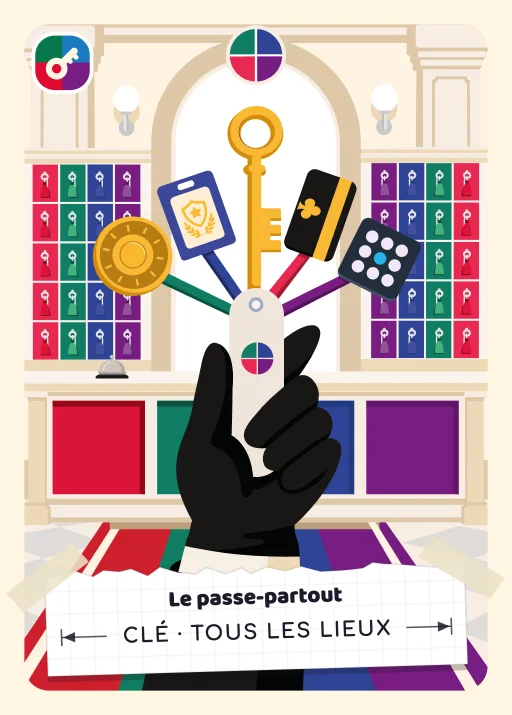
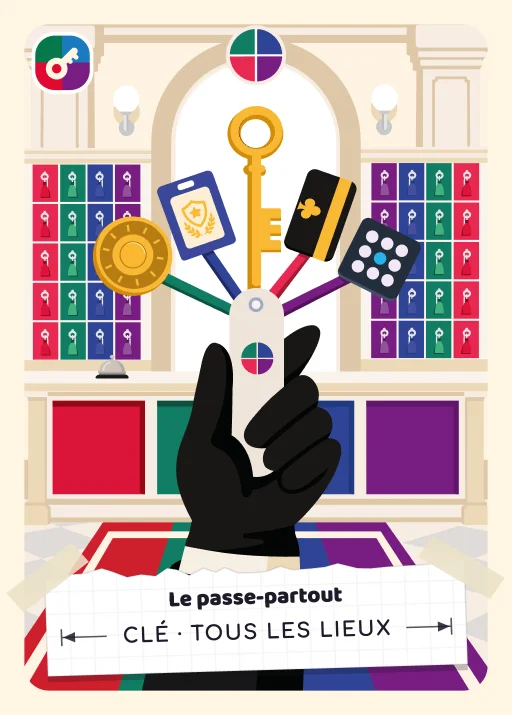
Cards: rename the Bank cards, new stamp Key, retouched universals
The Bank Key "La combinaison du coffre" becomes "Le tampon du directeur"
(new illustration: a gloved hand pressing the director's stamp on a slip),
and the Bank Loot "Les lingots" becomes "Le coffre" (the safe illustration).
Card images renamed to 01-le-tampon-du-directeur.webp and 02-le-coffre.webp;
gallery, scoring examples, simulator labels and the step-by-step example
use the new names. Passe-partout and Pactole re-exported with the aligned
striped rug and the full luggage conveyor.

diff --git a/voltigo.html b/voltigo.html
@@ -557,8 +557,8 @@
   <div class="sechead"><div class="pastille">66</div><div><h2>Les cartes</h2><div class="sub">Tout tient dans un paquet. Le reste, c'est du bluff.</div></div></div>
   <div class="toggle-row"><span class="pill"><svg class="ico" aria-hidden="true"><use href="#i-cle"/></svg><svg class="ico" aria-hidden="true"><use href="#i-butin"/></svg>48 Clés et Butins, 6 + 6 par lieu</span><span class="pill"><svg class="ico" aria-hidden="true"><use href="#i-cle"/></svg>2 Passe-partout</span><span class="pill"><svg class="ico" aria-hidden="true"><use href="#i-butin"/></svg>2 Pactole</span><span class="pill"><svg class="ico" aria-hidden="true"><use href="#i-alarme"/></svg>6 Alarmes</span><span class="pill"><svg class="ico" aria-hidden="true"><use href="#i-traitre"/></svg>2 Traîtres</span><span class="pill">6 Aide-mémoire</span></div>
   <div class="gallery" aria-label="Aperçu des cartes">
-    <img src="cartes/01-la-combinaison-du-coffre.webp" alt="La combinaison du coffre · Clé de la Banque" loading="lazy" width="512" height="715">
-    <img src="cartes/02-les-lingots.webp" alt="Les lingots · Butin de la Banque" loading="lazy" width="512" height="715">
+    <img src="cartes/01-le-tampon-du-directeur.webp" alt="Le tampon du directeur · Clé de la Banque" loading="lazy" width="512" height="715">
+    <img src="cartes/02-le-coffre.webp" alt="Le coffre · Butin de la Banque" loading="lazy" width="512" height="715">
     <img src="cartes/03-le-badge-du-gardien-de-nuit.webp" alt="Le badge du gardien · Clé du Musée" loading="lazy" width="512" height="715">
     <img src="cartes/04-le-tableau.webp" alt="Le tableau · Butin du Musée" loading="lazy" width="512" height="715">
     <img src="cartes/05-le-passe-de-la-salle-privee.webp" alt="Le passe de la salle privée · Clé du Casino" loading="lazy" width="512" height="715">
@@ -638,7 +638,7 @@
             <span class="suite fin">Fin du coup</span>
           </div>
           <div class="branche ko">
-            <div class="duo"><img src="cartes/02-les-lingots.webp" alt="Les lingots" loading="lazy" width="512" height="715"><img src="cartes/03-le-badge-du-gardien-de-nuit.webp" alt="Le badge du gardien" loading="lazy" width="512" height="715"></div>
+            <div class="duo"><img src="cartes/02-le-coffre.webp" alt="Le coffre" loading="lazy" width="512" height="715"><img src="cartes/03-le-badge-du-gardien-de-nuit.webp" alt="Le badge du gardien" loading="lazy" width="512" height="715"></div>
             <span class="issue">Coup raté</span>
             <p><strong>Tout le reste.</strong> Les deux cartes vont à la défausse.</p>
             <p class="note">Une Alarme posée face cachée dans un coup ne sonne pas : le coup rate.</p>
@@ -682,7 +682,7 @@
   <div class="combos">
     <div class="combo"><div class="pts">1</div><div class="fan"><img src="cartes/03-le-badge-du-gardien-de-nuit.webp" alt="Le badge du gardien" width="512" height="715" style="--r:0deg"></div><span class="tag">1 carte</span><h4>La carte seule</h4><p>Une Clé ou un Butin hors d’un groupe.</p><p class="punch">Petit, mais ça compte.</p></div>
     <div class="combo"><div class="pts">4</div><div class="fan"><img src="cartes/05-le-passe-de-la-salle-privee.webp" alt="Le passe de la salle privée" width="512" height="715" style="--r:-8deg"><img src="cartes/05-le-passe-de-la-salle-privee.webp" alt="Le passe de la salle privée" width="512" height="715" style="--r:8deg"></div><span class="tag">2 Clés · même lieu</span><h4>La paire</h4><p>Deux Clés du même lieu : 4 points au lieu de 2.</p><p class="punch">Un double des clés, et la porte est à toi.</p></div>
-    <div class="combo"><div class="pts">7</div><div class="fan"><img src="cartes/02-les-lingots.webp" alt="Les lingots" width="512" height="715" style="--r:-12deg"><img src="cartes/04-le-tableau.webp" alt="Le tableau" width="512" height="715" style="--r:0deg"><img src="cartes/06-la-caisse.webp" alt="La caisse" width="512" height="715" style="--r:12deg"></div><span class="tag">3 Butins · lieux différents</span><h4>La famille</h4><p>Trois Butins de trois lieux différents, gagnés ou volés : 7 points au lieu de 3.</p><p class="punch">Le tour des grands magasins.</p></div>
+    <div class="combo"><div class="pts">7</div><div class="fan"><img src="cartes/02-le-coffre.webp" alt="Le coffre" width="512" height="715" style="--r:-12deg"><img src="cartes/04-le-tableau.webp" alt="Le tableau" width="512" height="715" style="--r:0deg"><img src="cartes/06-la-caisse.webp" alt="La caisse" width="512" height="715" style="--r:12deg"></div><span class="tag">3 Butins · lieux différents</span><h4>La famille</h4><p>Trois Butins de trois lieux différents, gagnés ou volés : 7 points au lieu de 3.</p><p class="punch">Le tour des grands magasins.</p></div>
   </div>
   <p class="note" style="margin-top:14px">Chaque carte compte dans un seul groupe, regroupé au mieux. Le Passe-partout complète une paire, le Pactole une famille, au lieu de ton choix.</p>
   <div class="grid2 fin-seule" style="margin-top:26px">
@@ -1045,9 +1045,9 @@
   // ---- Exemple : un début de partie joué pas à pas (18 oct. 2026 : sans effets de lieu, Traître des deux côtés ; « Je l'ai ! », pioche, universelles jokers).
   // Le script ci-dessous rejoue les six coups sur une table ; chaque étape en garde un instantané complet.
   // Afficher une étape, c'est poser chaque carte à sa place : les transitions CSS font glisser et retourner les cartes, dans les deux sens.
-  const LIEU = { B: ["banque", "Banque", "la combinaison du coffre", "les lingots"], M: ["musee", "Musée", "le badge du gardien", "le tableau"], C: ["casino", "Casino", "le passe de la salle privée", "la caisse"], J: ["bijou", "Bijouterie", "le code de l'alarme", "les diamants"] };
+  const LIEU = { B: ["banque", "Banque", "le tampon du directeur", "le coffre"], M: ["musee", "Musée", "le badge du gardien", "le tableau"], C: ["casino", "Casino", "le passe de la salle privée", "la caisse"], J: ["bijou", "Bijouterie", "le code de l'alarme", "les diamants"] };
   const NOM = { A: "Ana", B: "Bilal", C: "Chloé", D: "Dov" };
-  const IMG = { "K-B": "01-la-combinaison-du-coffre", "L-B": "02-les-lingots", "K-M": "03-le-badge-du-gardien-de-nuit", "L-M": "04-le-tableau", "K-C": "05-le-passe-de-la-salle-privee", "L-C": "06-la-caisse", "K-J": "07-le-code-de-l-alarme", "L-J": "08-les-diamants", "T": "09-traitre", "A": "10-alarme", "K-U": "15-passe-partout", "L-U": "16-pactole" };
+  const IMG = { "K-B": "01-le-tampon-du-directeur", "L-B": "02-le-coffre", "K-M": "03-le-badge-du-gardien-de-nuit", "L-M": "04-le-tableau", "K-C": "05-le-passe-de-la-salle-privee", "L-C": "06-la-caisse", "K-J": "07-le-code-de-l-alarme", "L-J": "08-les-diamants", "T": "09-traitre", "A": "10-alarme", "K-U": "15-passe-partout", "L-U": "16-pactole" };
   function cardName(code) {
     if (code === "T") return "Le traître"; if (code === "A") return "Alarme";
     if (code === "K-U") return "Le passe-partout · Clé de tous les lieux"; if (code === "L-U") return "Le pactole · Butin de tous les lieux";
@@ -1170,18 +1170,18 @@
   // Coup 2 : Bilal annonce un Butin, et un Traître se cache parmi les volontaires
   newCoup("B");
   const lb = h("B", "L-B");
-  beat(2, "Bilal a les lingots, un Butin de la Banque. Il lui faut la combinaison du coffre, la Clé de la Banque.", null, { hi: [lb] });
+  beat(2, "Bilal a le coffre, un Butin de la Banque. Il lui faut le tampon du directeur, la Clé de la Banque.", null, { hi: [lb] });
   toMid("m", lb); S.announce = "« Butin de la Banque, qui a la clé ? »";
-  beat(2, "Il pose les lingots face cachée et annonce.");
+  beat(2, "Il pose le coffre face cachée et annonce.");
   const a2 = h("A", "K-B"), tc = h("C", "T");
   offer("A", a2); offer("C", tc);
-  beat(2, "Ana a la combinaison : « Je l'ai ! ». Chloé aussi… avec un Traître.", "Annoncer un Butin, c'est montrer son portefeuille.", { says: { A: JLA, C: JLA }, hi: [tc] });
+  beat(2, "Ana a le tampon : « Je l'ai ! ». Chloé aussi… avec un Traître.", "Annoncer un Butin, c'est montrer son portefeuille.", { says: { A: JLA, C: JLA }, hi: [tc] });
   toMid("c", tc); back("A"); S.roles.C = "complice";
   beat(2, "Bilal choisit Chloé. Ana reprend sa carte.");
   S.revealed = true; S.res = ["vol", "Trahison !"];
-  beat(2, "On retourne : un Traître face à un Butin. Chloé, la complice, vole les lingots !", "Meneur ou complice, le Traître vole pareil.");
+  beat(2, "On retourne : un Traître face à un Butin. Chloé, la complice, vole le coffre !", "Meneur ou complice, le Traître vole pareil.");
   toPlanq("C", lb); toDiscard(tc); S.res = null; S.revealed = false;
-  beat(2, "Les lingots vont dans la Planque de Chloé : 1 point. Le Traître part à la défausse.", "Les Clés ne se volent jamais : la combinaison d'Ana ne risquait rien.");
+  beat(2, "Le coffre va dans la Planque de Chloé : 1 point. Le Traître part à la défausse.", "Les Clés ne se volent jamais : le tampon d'Ana ne risquait rien.");
   const f2 = completer("B");
   beat(2, f2.txt + " Au tour de Chloé.", "Bilal révise sa confiance en l'humanité.", { hi: f2.got });
 
@@ -1191,7 +1191,7 @@
   beat(3, "Chloé a le passe du Casino, une Clé. Il lui faut la caisse, le Butin du Casino.", null, { hi: [kc] });
   toMid("m", kc); S.announce = "« Clé du Casino, qui a le Butin ? »";
   beat(3, "Elle pose sa Clé face cachée et annonce.");
-  beat(3, "Ana a la caisse… mais se tait. Après le coup des lingots, personne n'a envie d'aider Chloé.", null, { hi: [h("A", "L-C")], says: { A: "…" } });
+  beat(3, "Ana a la caisse… mais se tait. Après le vol du coffre, personne n'a envie d'aider Chloé.", null, { hi: [h("A", "L-C")], says: { A: "…" } });
   const t3 = S.deck[0]; toMid("c", t3);
   beat(3, "Personne ne dit « Je l'ai ! ». Chloé prend donc la carte du dessus de la pioche.", "Sans volontaire, la pioche joue le complice.");
   S.revealed = true; S.res = ["ok", "Coup réussi"];
@@ -1224,16 +1224,16 @@
   // Coup 5 : le Pactole de Dov
   newCoup("A");
   const kb = h("A", "K-B");
-  beat(5, "Ana a la combinaison du coffre, la Clé de la Banque. Il lui faut les lingots.", null, { hi: [kb] });
+  beat(5, "Ana a le tampon du directeur, la Clé de la Banque. Il lui faut le coffre.", null, { hi: [kb] });
   toMid("m", kb); S.announce = "« Clé de la Banque, qui a le Butin ? »";
   beat(5, "Elle la pose face cachée et annonce.");
   const d5 = h("D", "L-U"), c5 = h("C", "L-B");
   offer("D", d5); offer("C", c5);
-  beat(5, "Chloé a les lingots. Dov a le Pactole, qui va avec toutes les Clés. Deux « Je l'ai ! ».", null, { says: { D: JLA, C: JLA } });
+  beat(5, "Chloé a le coffre. Dov a le Pactole, qui va avec toutes les Clés. Deux « Je l'ai ! ».", null, { says: { D: JLA, C: JLA } });
   toMid("c", d5); back("C"); S.roles.D = "complice";
-  beat(5, "Ana choisit Dov plutôt que Chloé. Chloé reprend sa carte.", "Échaudée par les lingots, toute la table se méfie de Chloé.");
+  beat(5, "Ana choisit Dov plutôt que Chloé. Chloé reprend sa carte.", "Échaudée par le vol du coffre, toute la table se méfie de Chloé.");
   S.revealed = true; S.res = ["ok", "Coup réussi"];
-  beat(5, "Combinaison et Pactole : coup réussi, à la Banque.");
+  beat(5, "Tampon et Pactole : coup réussi, à la Banque.");
   toPlanq("A", kb); toPlanq("D", d5); S.res = null; S.revealed = false;
   beat(5, "Chacun range sa carte. Dov : 1 point. Ana : deux Clés de lieux différents, 2 points.");
   const f5 = completer("A");

diff --git a/index.html b/index.html
@@ -28,7 +28,7 @@
 <section class="hero" aria-labelledby="hero-title">
 <svg class="footprints" viewBox="0 0 90 235" aria-hidden="true"><defs><g id="foot"><ellipse cx="8" cy="4" rx="4" ry="3.4"/><path d="M8 9C3 9 4 16 3 20C2 28 14 28 13 20C12 16 13 9 8 9Z"/></g></defs><use href="#foot" x="20" y="10"/><use href="#foot" x="50" y="46"/><use href="#foot" x="20" y="85"/><use href="#foot" x="50" y="123"/><use href="#foot" x="20" y="165"/><use href="#foot" x="50" y="202"/></svg>
 <div class="hero-copy"><p class="eyebrow">Jeu de cartes · Bluff · Complicités douteuses</p><h1 id="hero-title">Un coup se fait à deux.<span>La victoire,<br>beaucoup moins.</span></h1><p class="intro">Monte un casse. Choisis ton complice. Croise les doigts pour qu’il soit aussi honnête que toi.<br><strong>Enfin… un peu plus, de préférence.</strong></p><p class="what">Un jeu de cartes à jouer entre amis, autour d’une vraie table. Il n’existe pas encore en boutique : on cherche des joueurs pour le tester avant sa sortie.</p><a class="button" data-playtest href="inscription.html">Je veux tester le jeu <svg class="button-arrow" aria-hidden="true" focusable="false" viewBox="0 0 24 24"><path d="M7 17 17 7M7 7h10v10"/></svg></a><p class="micro">Trente secondes pour t’inscrire. On t’écrit pour caler la partie.</p><ul class="facts" aria-label="Le jeu en bref"><li><strong>3–6</strong>joueurs</li><li><strong>15–20</strong>minutes</li><li><strong>3 min</strong>pour les règles</li></ul></div>
-<div class="card-spread" aria-hidden="true"><img class="scattered c1" src="cartes/01-la-combinaison-du-coffre.webp" width="512" height="715" alt=""><img class="scattered c2" src="cartes/02-les-lingots.webp" width="512" height="715" alt=""><img class="scattered c3" src="cartes/09-traitre.webp" width="512" height="715" alt=""><img class="scattered c4" src="cartes/08-les-diamants.webp" width="512" height="715" alt=""></div>
+<div class="card-spread" aria-hidden="true"><img class="scattered c1" src="cartes/01-le-tampon-du-directeur.webp" width="512" height="715" alt=""><img class="scattered c2" src="cartes/02-le-coffre.webp" width="512" height="715" alt=""><img class="scattered c3" src="cartes/09-traitre.webp" width="512" height="715" alt=""><img class="scattered c4" src="cartes/08-les-diamants.webp" width="512" height="715" alt=""></div>
 </section>
 <div class="ticker">Quatre lieux à cambrioler <span>✦</span> Des complices à recruter <span>✦</span> Des amis à trahir</div>
 <section class="pitch shell" aria-labelledby="pitch-title"><svg class="footprints" viewBox="0 0 90 235" aria-hidden="true"><use href="#foot" x="20" y="10"/><use href="#foot" x="50" y="46"/><use href="#foot" x="20" y="85"/><use href="#foot" x="50" y="123"/><use href="#foot" x="20" y="165"/></svg><div class="section-top"><div><p class="eyebrow">Les cartes ne mentent pas. Les joueurs, si.</p><h2 id="pitch-title">De bons amis.<br>De mauvaises intentions.</h2></div><p>Pas besoin d’un casier judiciaire.<br>Une table, quelques complices et un air innocent suffisent.</p></div>
